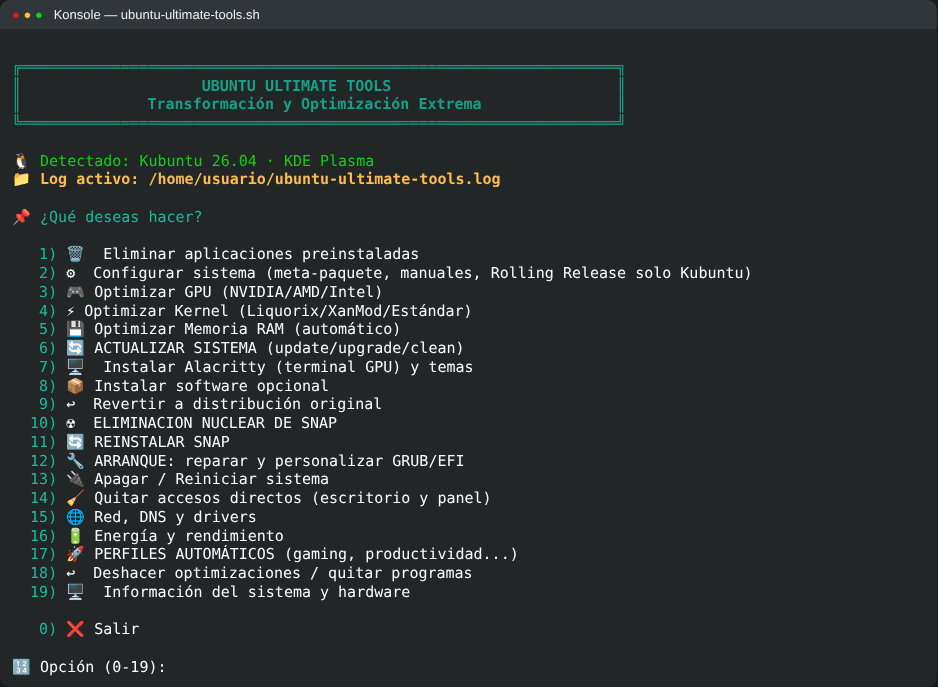
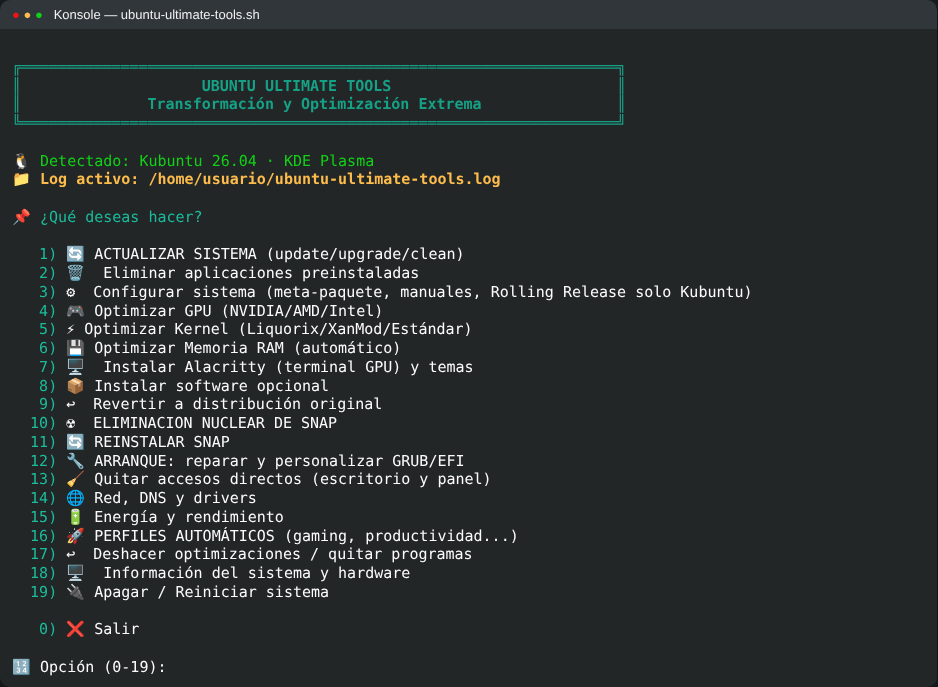
Menú principal: Actualizar primero y Apagar/Reiniciar al final

Changed region(s): [[0.0618, 0.6725, 0.5256, 0.8865], [0.0618, 0.3362, 0.8038, 0.5197]]

diff --git a/README.md b/README.md
@@ -50,7 +50,7 @@ sin importar el sabor. Al iniciar **detecta qué sabor y qué escritorio tienes*
 | **Ubuntu Server** | sin escritorio | Kernel, GRUB, red, RAM, Snap y actualizaciones |
 
 El sabor se detecta por su meta-paquete (`kubuntu-desktop`, `xubuntu-desktop`...). Si lo quitaste con la
-opción 2, se reconoce por su escritorio. Las opciones que no aplican a tu escritorio lo explican y no hacen nada.
+opción 3, se reconoce por su escritorio. Las opciones que no aplican a tu escritorio lo explican y no hacen nada.
 
 ---
 
@@ -102,7 +102,7 @@ chmod +x ubuntu-ultimate-tools.sh
 
 ## 🚀 Perfiles automáticos
 
-Aplican varias optimizaciones de una vez, sin preguntas intermedias. Se eligen desde el menú (opción 17)
+Aplican varias optimizaciones de una vez, sin preguntas intermedias. Se eligen desde el menú (opción 16)
 o desde la terminal:
 
 ```bash
@@ -126,7 +126,7 @@ o desde la terminal:
 
 ---
 
-## 🌐 Red, DNS y drivers (opción 15)
+## 🌐 Red, DNS y drivers (opción 14)
 
 - **DNS**: Cloudflare, Cloudflare con bloqueo de malware, Google, Quad9 o AdGuard (bloquea anuncios), con DNS
   cifrado cuando el servidor lo permite. También puede **medir cuál responde más rápido** desde tu conexión.
@@ -140,7 +140,7 @@ o desde la terminal:
 
 ---
 
-## 🔋 Energía y rendimiento (opción 16)
+## 🔋 Energía y rendimiento (opción 15)
 
 Perfiles rendimiento / equilibrado / ahorro, TLP para portátiles, activar o desactivar el indexador
 de archivos Baloo, y herramientas de juego: GameMode, MangoHud, Steam y Proton-GE.
@@ -154,12 +154,12 @@ Shift derecho + F12 oculta el panel · Shift izquierdo + F2 pausa/reanuda la gra
 - **Steam**: se instala el `.deb` oficial de Valve y se activan las librerías de 32 bits (`i386`) que necesitan
   Steam y los juegos, incluida la parte de 32 bits del driver de NVIDIA si lo usas.
 - **Proton** viene dentro de Steam. El script lo activa para **todos los juegos** (Proton Experimental):
-  si Steam todavía no se abrió nunca, ábrelo una vez, inicia sesión, ciérralo y usa la opción 16 → 6;
+  si Steam todavía no se abrió nunca, ábrelo una vez, inicia sesión, ciérralo y usa la opción 15 → 6;
   o actívalo a mano en *Steam → Configuración → Compatibilidad*. Si ya elegiste una versión, no se cambia.
 - **Proton-GE**: la última versión se descarga de la página oficial del proyecto, se comprueba que llegó
   entera (suma SHA-512) y se instala en `compatibilitytools.d`. Se elige por juego en
   *Propiedades → Compatibilidad*. Funciona también con Steam de Flatpak.
-- Se quitan desde la opción 18: Steam en "Quitar programas" y Proton-GE en "Quitar Proton-GE".
+- Se quitan desde la opción 17: Steam en "Quitar programas" y Proton-GE en "Quitar Proton-GE".
 
 ---
 
@@ -254,14 +254,14 @@ bash ubuntu-ultimate-tools.sh      # opción 12 → 10
 
 ## ☑ Selección con barra espaciadora
 
-En "Eliminar aplicaciones" (opción 1) y "Software opcional" (opción 8) las listas usan casillas:
+En "Eliminar aplicaciones" (opción 2) y "Software opcional" (opción 8) las listas usan casillas:
 **Espacio** marca o desmarca, **flechas** para moverse, **Enter** para aceptar. La lista de eliminación
 solo muestra las apps instaladas, y la de software marca las que ya tienes. Si `whiptail` no está
 disponible, se vuelve a la selección escribiendo números.
 
 ---
 
-## ↩ Deshacer optimizaciones (opción 18)
+## ↩ Deshacer optimizaciones (opción 17)
 
 - **Quitar programas instalados por el script**, con casillas. El script anota en
   `~/.local/share/ubuntu-ultimate-tools/paquetes-instalados.txt` solo los programas que **no tenías antes**;
@@ -284,7 +284,7 @@ En todos los menús y submenús, **0** vuelve al menú anterior (en el principal
 
 ---
 
-## 🖥 Información del sistema y hardware (opción 19)
+## 🖥 Información del sistema y hardware (opción 18)
 
 | | Opción | Qué muestra |
 |---|---|---|
@@ -312,11 +312,11 @@ En todos los menús y submenús, **0** vuelve al menú anterior (en el principal
 - Los `.deb` externos (VSCode, Chrome, Discord) se descargan en paralelo.
 - `apt update` se ejecuta una vez por sesión (o se omite si el sistema lo hizo hace menos de 30 minutos).
 - Cambiar de kernel no regenera GRUB: se usa `GRUB_DEFAULT=saved` + `grub-set-default`.
-- La opción 2 permite desactivar la indexación de manuales (`man-db`), lo más lento de cada instalación.
+- La opción 3 permite desactivar la indexación de manuales (`man-db`), lo más lento de cada instalación.
 
 ---
 
-## ⚡ Cambio de kernel
+## ⚡ Cambio de kernel (opción 5)
 
 | Opción | Kernel | Notas |
 |--------|--------|-------|
@@ -345,7 +345,7 @@ Dentro de la opción 3:
 Deja tu Ubuntu como vino de fábrica, sea cual sea el sabor (muestra cuál detectó antes de empezar):
 
 - Reinstala el meta-paquete de tu sabor **con todas sus aplicaciones** (`kubuntu-desktop`, `xubuntu-desktop`,
-  `ubuntu-desktop-minimal`...). Si lo quitaste con la opción 2, recuerda cuál era: un Ubuntu mínimo no se
+  `ubuntu-desktop-minimal`...). Si lo quitaste con la opción 3, recuerda cuál era: un Ubuntu mínimo no se
   convierte en uno completo.
 - Reinstala todo lo que el script eliminó (incluidas dependencias); la lista está en
   `~/.local/share/ubuntu-ultimate-tools/paquetes-eliminados.txt`.
@@ -358,8 +358,8 @@ Deja tu Ubuntu como vino de fábrica, sea cual sea el sabor (muestra cuál detec
 - Vuelve a fábrica todos los ajustes (RAM, DNS, ZRAM, energía, indexador...).
 - En Ubuntu Server hace lo que aplica: paquetes, Snap y ajustes.
 
-No cambia el kernel (opción 4) ni el arranque (opción 12). Los programas que instaló el script se quitan
-desde la opción 18.
+No cambia el kernel (opción 5) ni el arranque (opción 12). Los programas que instaló el script se quitan
+desde la opción 17.
 
 ---
 
@@ -407,8 +407,8 @@ cd mi-proyecto
 - **NDK y CMake** (proyectos con C/C++): Gradle baja solo la versión exacta que pide el proyecto,
   porque el script ya aceptó las licencias del SDK.
 - **Actualizar**: vuelve a usar la opción 8 → Compilar APK y se actualiza el SDK.
-- **Quitar**: opción 18 → 7 (Android Studio y SDK; tus claves de firma en `~/.android` no se tocan)
-  y 18 → 8 (SDK de Flatpak).
+- **Quitar**: opción 17 → 7 (Android Studio y SDK; tus claves de firma en `~/.android` no se tocan)
+  y 17 → 8 (SDK de Flatpak).
 
 ### 🐳 Compilar con Docker
 
@@ -424,7 +424,7 @@ docker run --rm -v "$PWD":/home/source mi-compilador  # la ruta la indica el REA
 - Para usar `docker` sin `sudo`, el script ofrece sumar tu usuario al grupo `docker` (avisa que ese grupo
   equivale a ser administrador).
 - Si había configuración de un Docker anterior, se guarda un respaldo antes de instalar.
-- **Quitar** (opción 18 → 9): solo los programas, conservando imágenes y volúmenes; o la **eliminación
+- **Quitar** (opción 17 → 9): solo los programas, conservando imágenes y volúmenes; o la **eliminación
   nuclear**, que borra todo (datos, configuración y grupo) después de guardar un respaldo de la
   configuración y, si quieres, de tus volúmenes.
 
@@ -437,7 +437,7 @@ Android (`~/.android`). Nunca se pisa un respaldo anterior.
 
 ---
 
-## 🗑 Aplicaciones que puedes eliminar (opción 1)
+## 🗑 Aplicaciones que puedes eliminar (opción 2)
 
 La lista sale de los **meta-paquetes reales de cada sabor**, con dos filtros:
 
@@ -463,13 +463,13 @@ graph LR
     E --> F[Reiniciar]
 ```
 
-Si algo no te convence, la opción 18 deshace optimizaciones y quita programas, y la 9 vuelve a la distribución original.
+Si algo no te convence, la opción 17 deshace optimizaciones y quita programas, y la 9 vuelve a la distribución original.
 
 ---
 
 ## 🛡 Seguridad
 
-- ✅ **Reversible**: cada ajuste se puede deshacer (opción 18) y todo se puede revertir (opción 9).
+- ✅ **Reversible**: cada ajuste se puede deshacer (opción 17) y todo se puede revertir (opción 9).
 - ✅ **Confirmaciones**: cada acción importante pide confirmación y muestra qué se va a cambiar.
 - ✅ **Seguro de dependencias**: nunca quita una app que arrastre piezas esenciales del sistema.
 - ✅ **Copias antes de tocar el arranque**: `/etc/default/grub` se guarda antes del primer cambio, y `/etc/grub.d` entero antes de deshacer Grub Customizer.
@@ -499,7 +499,7 @@ Firefox y la tienda Snap se eliminarán. En Ubuntu `apt install firefox` solo in
 
 **¿Cómo vuelvo atrás?**
 
-Para quitar ajustes o programas sueltos, usa la opción 18. Para volver del todo, la opción 9: reinstala el meta-paquete de tu sabor con todas sus apps y restaura Snap.
+Para quitar ajustes o programas sueltos, usa la opción 17. Para volver del todo, la opción 9: reinstala el meta-paquete de tu sabor con todas sus apps y restaura Snap.
 
 **¿Usaba la versión anterior, "Kubuntu Lite"?**
 

diff --git a/screenshots/README.md b/screenshots/README.md
@@ -13,21 +13,21 @@ sabor y el escritorio detectados, y las listas muestran solo lo que está instal
 
 ---
 
-## Eliminar aplicaciones (opción 1) — lista con casillas
+## Eliminar aplicaciones (opción 2) — lista con casillas
 
-![Eliminar aplicaciones (opción 1) — lista con casillas](02-eliminar-apps.png)
-
----
-
-## Optimizar GPU (opción 3)
-
-![Optimizar GPU (opción 3)](03-gpu.png)
+![Eliminar aplicaciones (opción 2) — lista con casillas](02-eliminar-apps.png)
 
 ---
 
-## Optimizar kernel (opción 4)
+## Optimizar GPU (opción 4)
 
-![Optimizar kernel (opción 4)](04-kernel.png)
+![Optimizar GPU (opción 4)](03-gpu.png)
+
+---
+
+## Optimizar kernel (opción 5)
+
+![Optimizar kernel (opción 5)](04-kernel.png)
 
 ---
 
@@ -67,42 +67,42 @@ sabor y el escritorio detectados, y las listas muestran solo lo que está instal
 
 ---
 
-## Quitar accesos directos (opción 14)
+## Quitar accesos directos (opción 13)
 
-![Quitar accesos directos (opción 14)](09-accesos-directos.png)
-
----
-
-## Red, DNS y drivers (opción 15)
-
-![Red, DNS y drivers (opción 15)](10-red-dns-drivers.png)
+![Quitar accesos directos (opción 13)](09-accesos-directos.png)
 
 ---
 
-## Energía y rendimiento (opción 16)
+## Red, DNS y drivers (opción 14)
 
-![Energía y rendimiento (opción 16)](11-energia.png)
-
----
-
-## Perfiles automáticos (opción 17)
-
-![Perfiles automáticos (opción 17)](12-perfiles.png)
+![Red, DNS y drivers (opción 14)](10-red-dns-drivers.png)
 
 ---
 
-## Deshacer optimizaciones (opción 18)
+## Energía y rendimiento (opción 15)
 
-![Deshacer optimizaciones (opción 18)](13-deshacer.png)
-
----
-
-## Información del sistema y hardware (opción 19)
-
-![Información del sistema y hardware (opción 19)](14-informacion-sistema.png)
+![Energía y rendimiento (opción 15)](11-energia.png)
 
 ---
 
-## Resumen rápido del sistema (opción 19 → 1)
+## Perfiles automáticos (opción 16)
 
-![Resumen rápido del sistema (opción 19 → 1)](15-resumen-sistema.png)
+![Perfiles automáticos (opción 16)](12-perfiles.png)
+
+---
+
+## Deshacer optimizaciones (opción 17)
+
+![Deshacer optimizaciones (opción 17)](13-deshacer.png)
+
+---
+
+## Información del sistema y hardware (opción 18)
+
+![Información del sistema y hardware (opción 18)](14-informacion-sistema.png)
+
+---
+
+## Resumen rápido del sistema (opción 18 → 1)
+
+![Resumen rápido del sistema (opción 18 → 1)](15-resumen-sistema.png)
